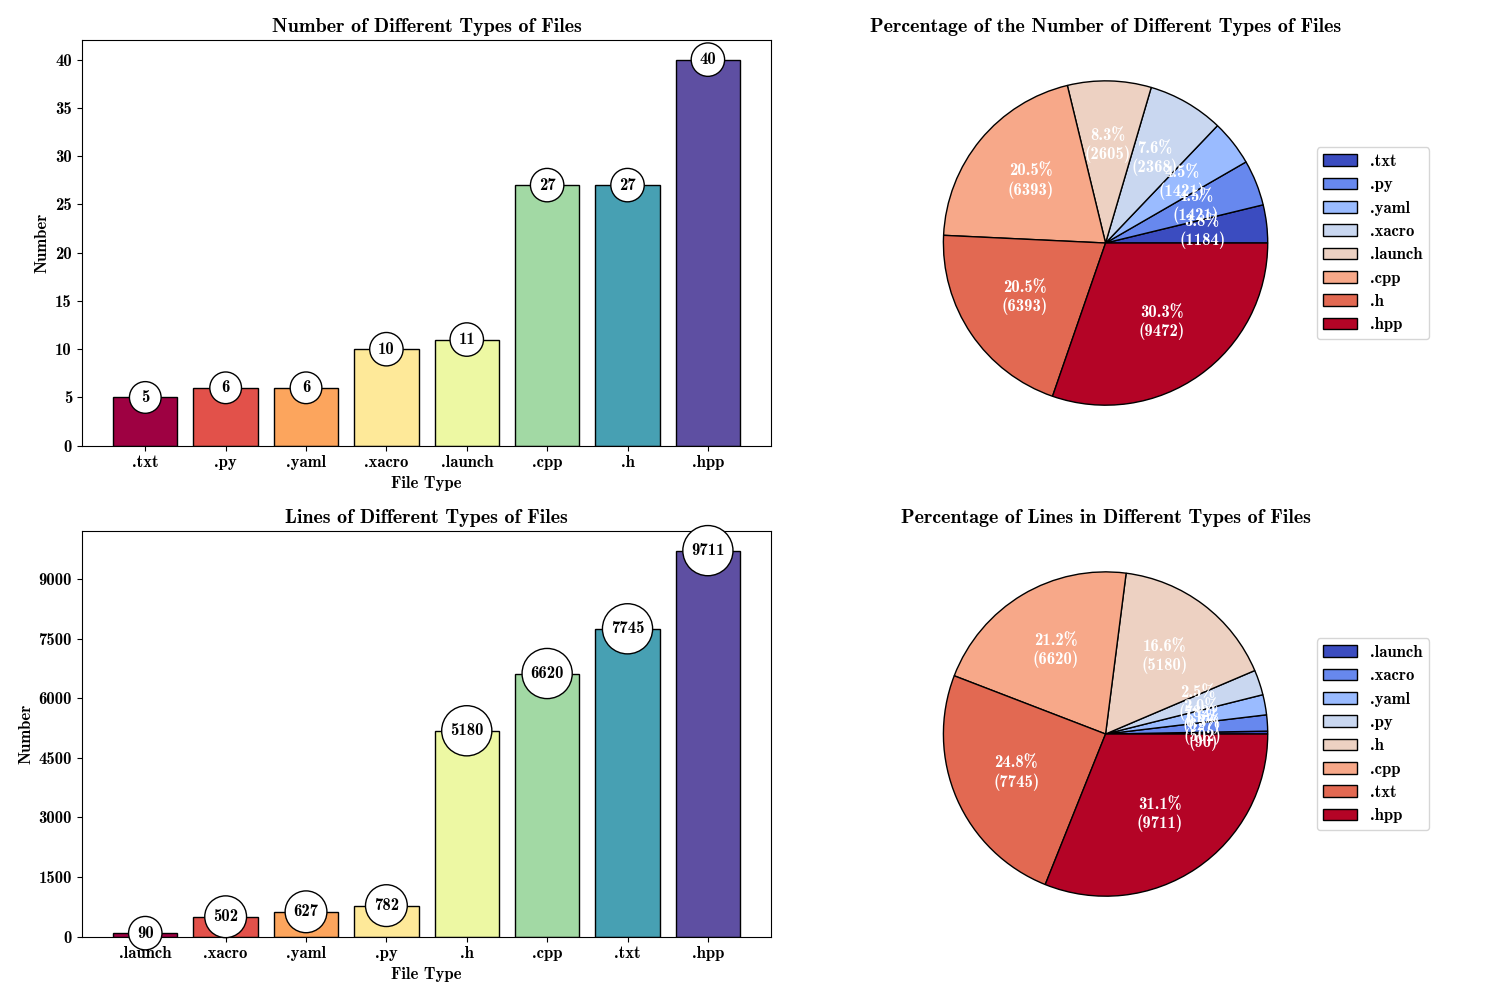
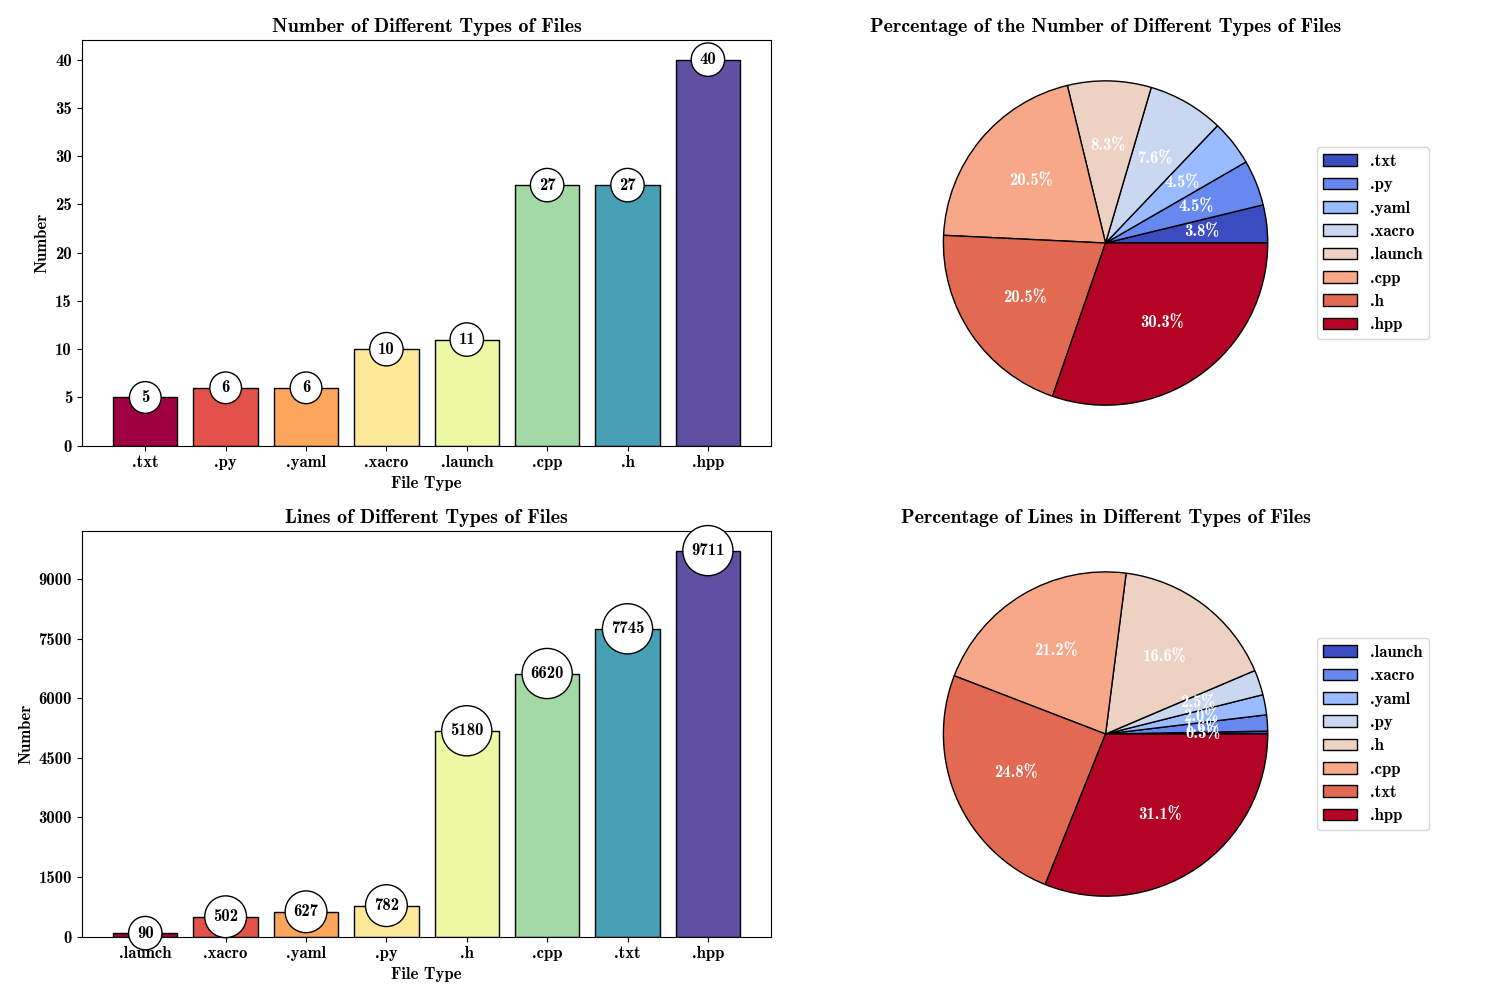
update drawer and fix bug[in 'func']

diff --git a/script/drawer.py b/script/drawer.py
@@ -65,12 +65,12 @@ def draw_bar(x_labels, y_values, ax, title):
 
 def func(pct, allvals):
     absolute = int(np.round(pct / 100. * np.sum(allvals)))
-    return "{:.1f}%\n({:d})".format(pct, absolute)
+    return "{:.1f}%".format(pct, absolute)
 
 
 def draw_pie(x_labels, y_values, ax, title):
     wedges, texts, autotexts = ax.pie(
-        y_values, autopct=lambda pct: func(pct, line_count), textprops=dict(color="w"),
+        y_values, autopct=lambda pct: func(pct, y_values), textprops=dict(color="w"),
         wedgeprops={"linewidth": 1, "edgecolor": "black"},
         colors=plt.get_cmap(color_name2)(np.linspace(0.0, 1.0, len(x_labels)))
     )
